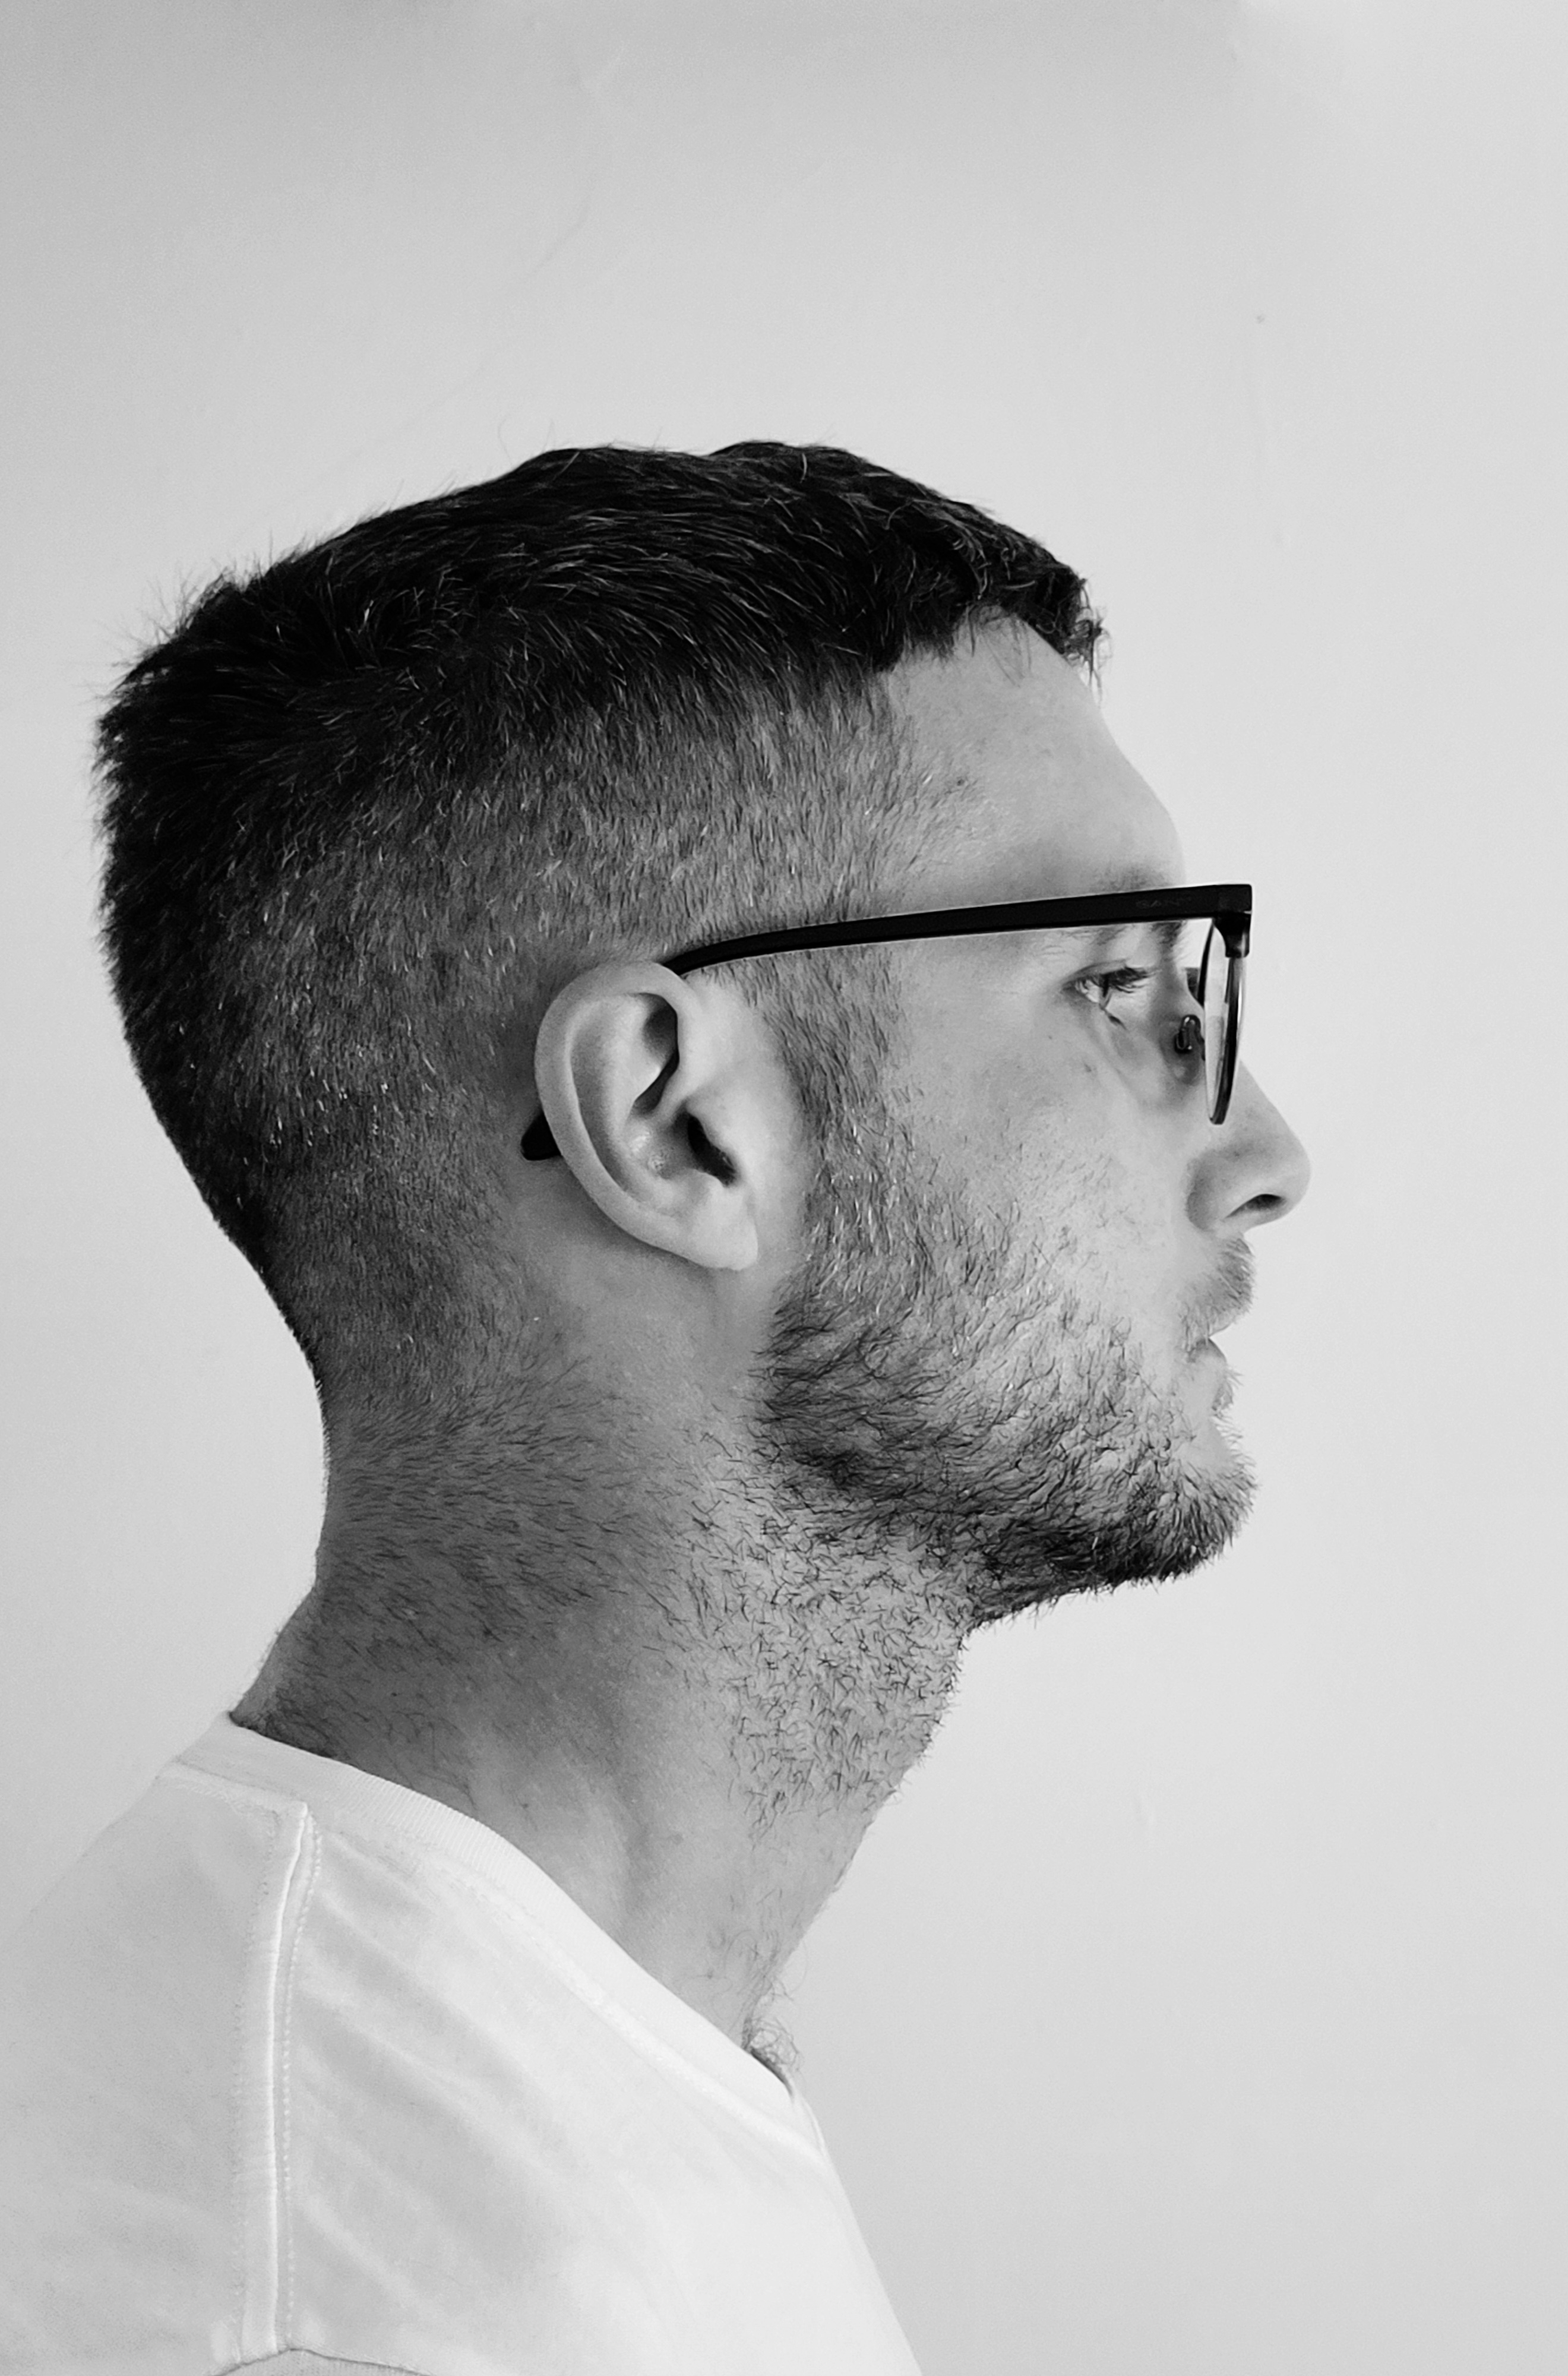
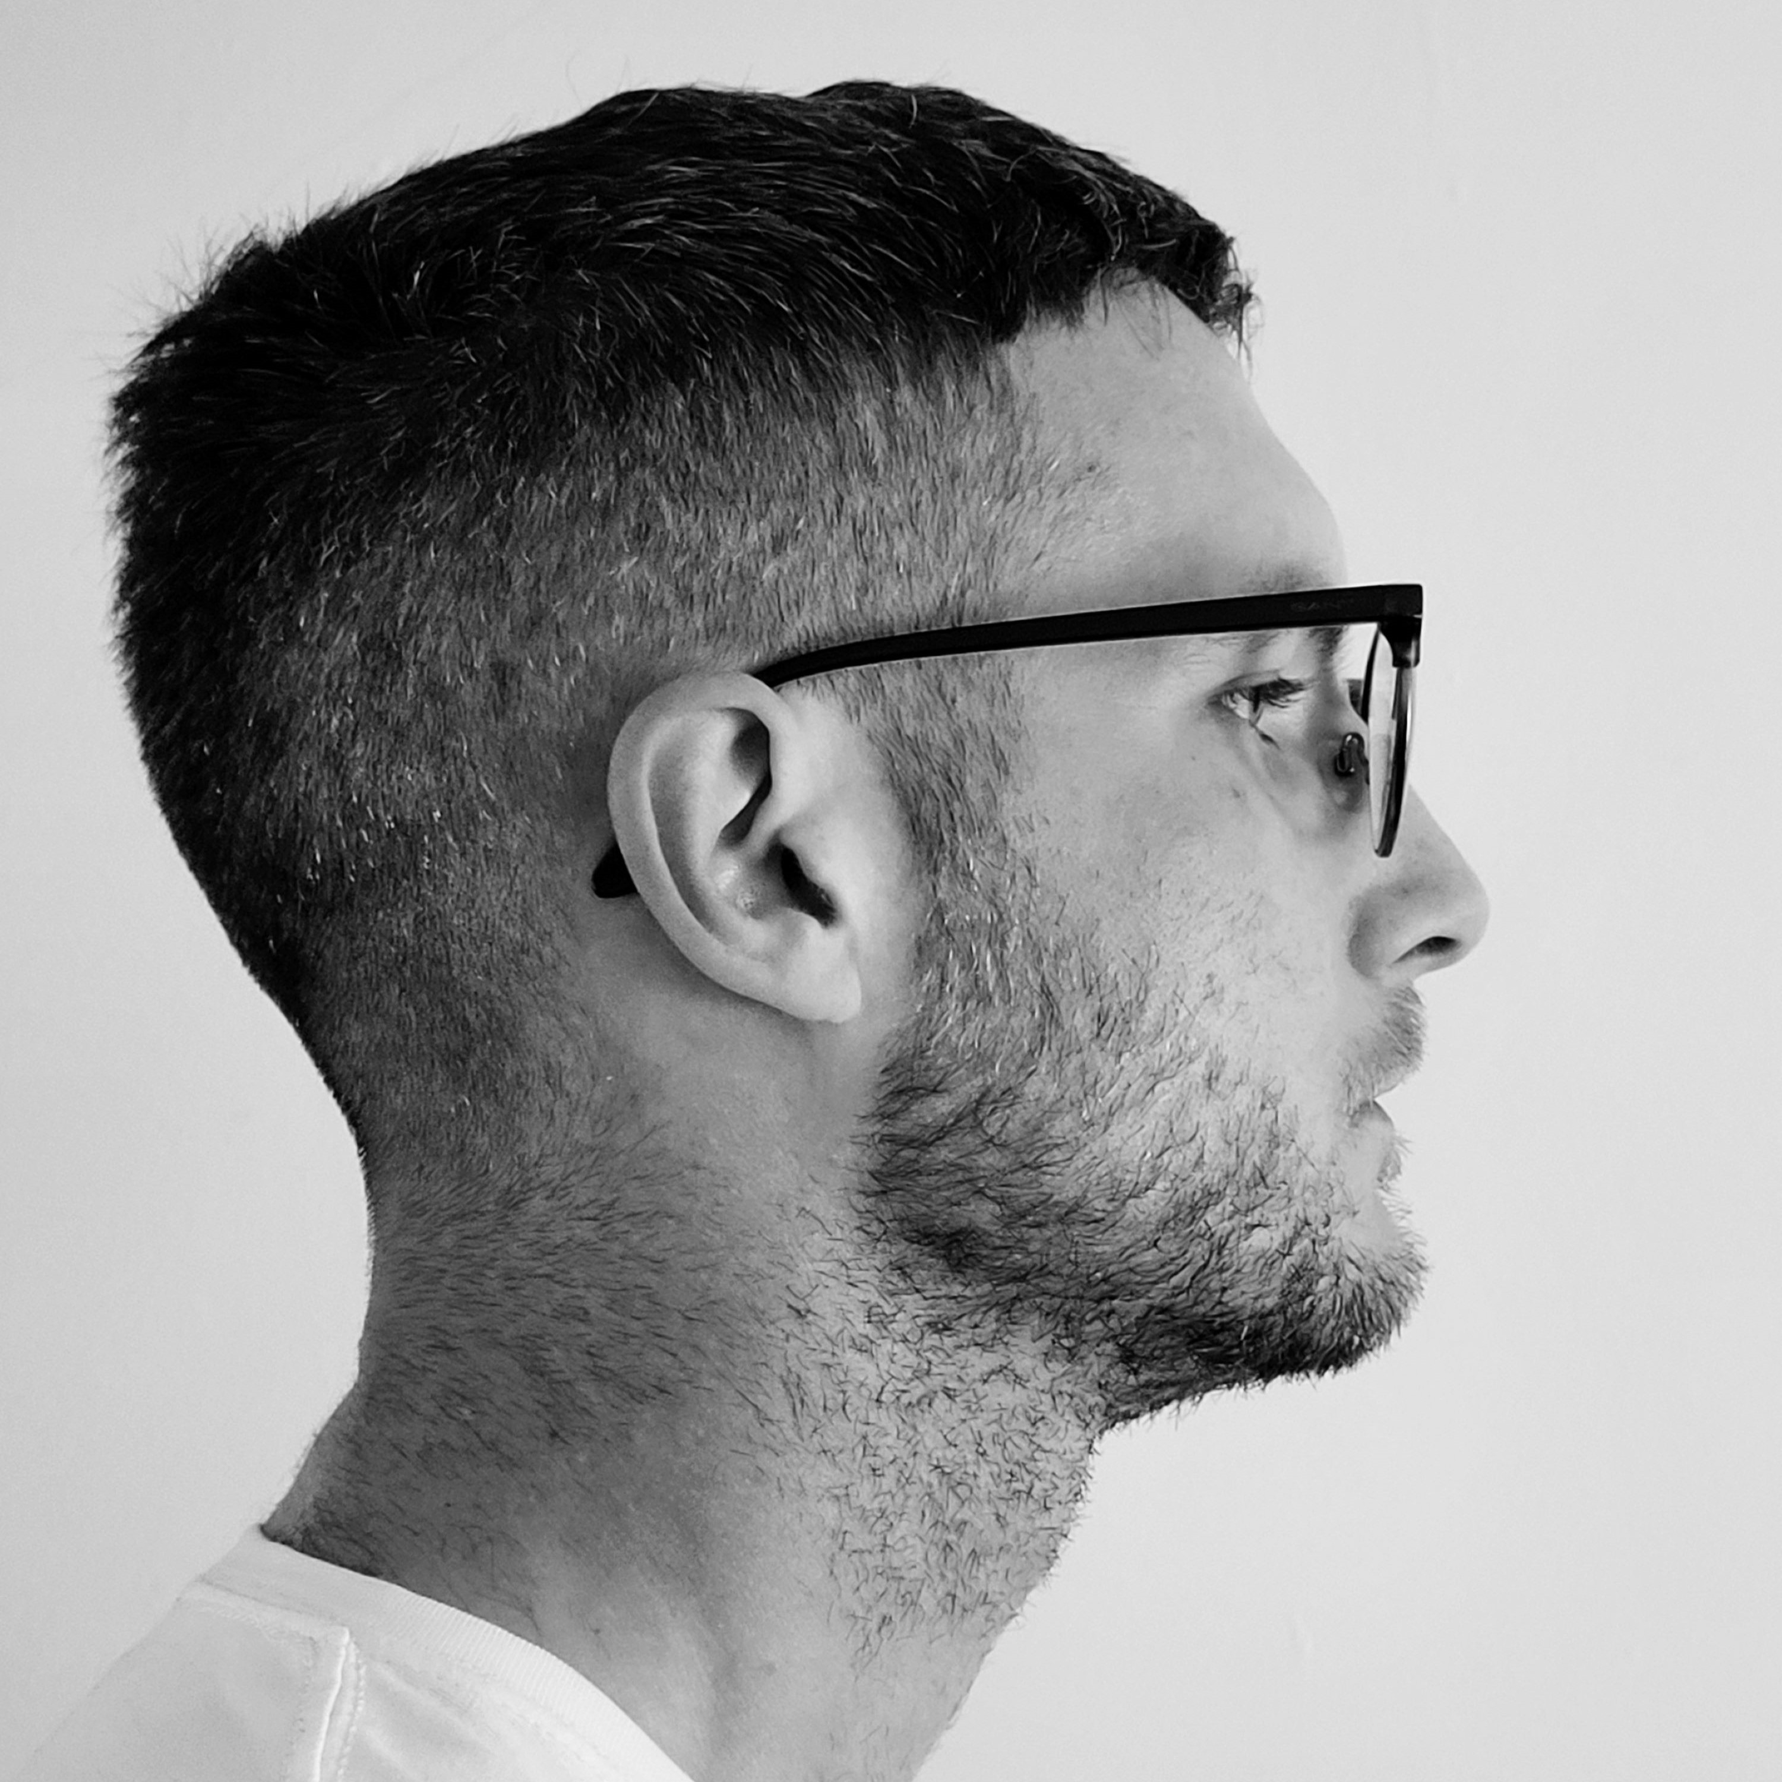
about me section done
about me section done, just need to adjust the profile text section. not sure what to write yet

diff --git a/index.html b/index.html
@@ -65,6 +65,40 @@
             </div>
         </div>
     </section>
+    <section id="about">
+        <p class="section__text__p1">Get To Know More</p>
+        <h1 class="title">About Me</h1>
+        <div class="section-container">
+            <div class="section__pic-container">
+                <img src="./assests/about-me.jpg" alt="Profile picture" class="about-pic" /> 
+            </div>
+        <div class="about-details-container">
+            <div class="about-containers">
+                <div class="details-container">
+                    <img src="./assests/experience.png" alt="Experience Icon" class="icon"/>
+                    <h3>Experience</h3>
+                    <p>Student Full-Time <br>Aspiring Full-Stack Developer</p>
+            </div>
+            <div class="details-container">
+                <img src="./assests/education.png" alt="Education Icon" class="icon"/>
+                    <h3>Education</h3>
+                    <p>B.Sc. Computer Science <br>Ulster University, Magee</p>
+            </div>
+        </div>
+        <div class="text-container">
+            <p>Lorem ipsum dolor sit amet consectetur adipisicing elit. 
+                Debitis, velit architecto harum corporis nisi voluptatum 
+                veritatis et ab reprehenderit sed! 
+                Quo amet perferendis beatae impedit nesciunt. 
+                Veniam eius nemo id fugit, libero a accusamus! 
+                Laboriosam, odio hic. 
+                Optio cumque a, id soluta fugit repellat alias dolore 
+                voluptates incidunt. Ad, rerum!</p>
+        </div>
+        </div>
+        <img src="./assests/arrow.png" alt="Arrow icon" class="icon arrow"
+        onclick="location.href='./#experience'"/>
+    </section>
     <script src="script.js"></script>
 </body>
 </html>

diff --git a/style.css b/style.css
@@ -260,3 +260,55 @@ section {
 .btn-container {
     gap: 1rem;
 }
+
+/* About section */
+#about {
+    position: relative;
+}
+
+.about-containers {
+    gap: 2rem;
+    margin-bottom: 2rem;
+    margin-top: 2rem;
+}
+
+.about-details-container {
+    justify-content: center;
+    flex-direction: column;
+}
+
+.about-containers, 
+.about-details-container {
+    display: flex;
+}
+
+.about-pic {
+    border-radius: 2rem;
+}
+
+.arrow { /* This adjusts the arrow to the bottom right corner */
+    position: absolute;
+    right: -5rem;
+    bottom: 2.5rem;
+}
+
+.details-container {
+    padding: 1.5rem;
+    flex: 1;
+    background: white;
+    border-radius: 2rem;
+    border: rgb(53, 53, 53) 0.1rem solid;
+    border-color: rbg(163, 163, 163);
+    text-align: center;
+}
+
+.section-container {
+    gap: 4rem;
+    height: 80%;
+}
+
+.section__pic-container {
+    height: 400px;
+    width: 400px;
+    margin: auto 0;
+}
